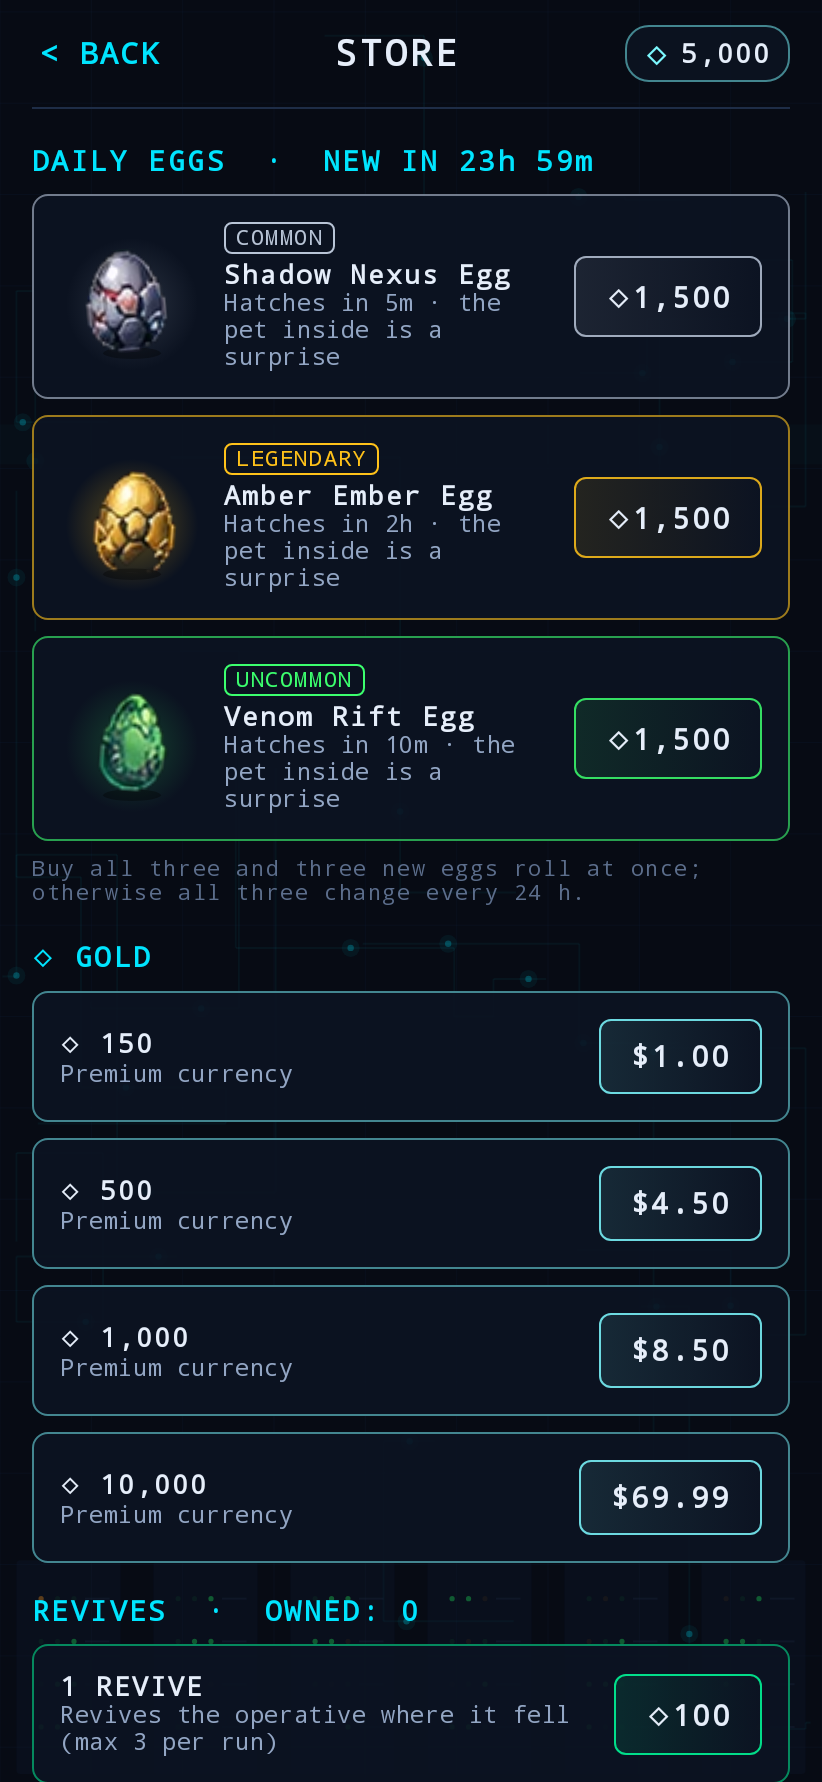
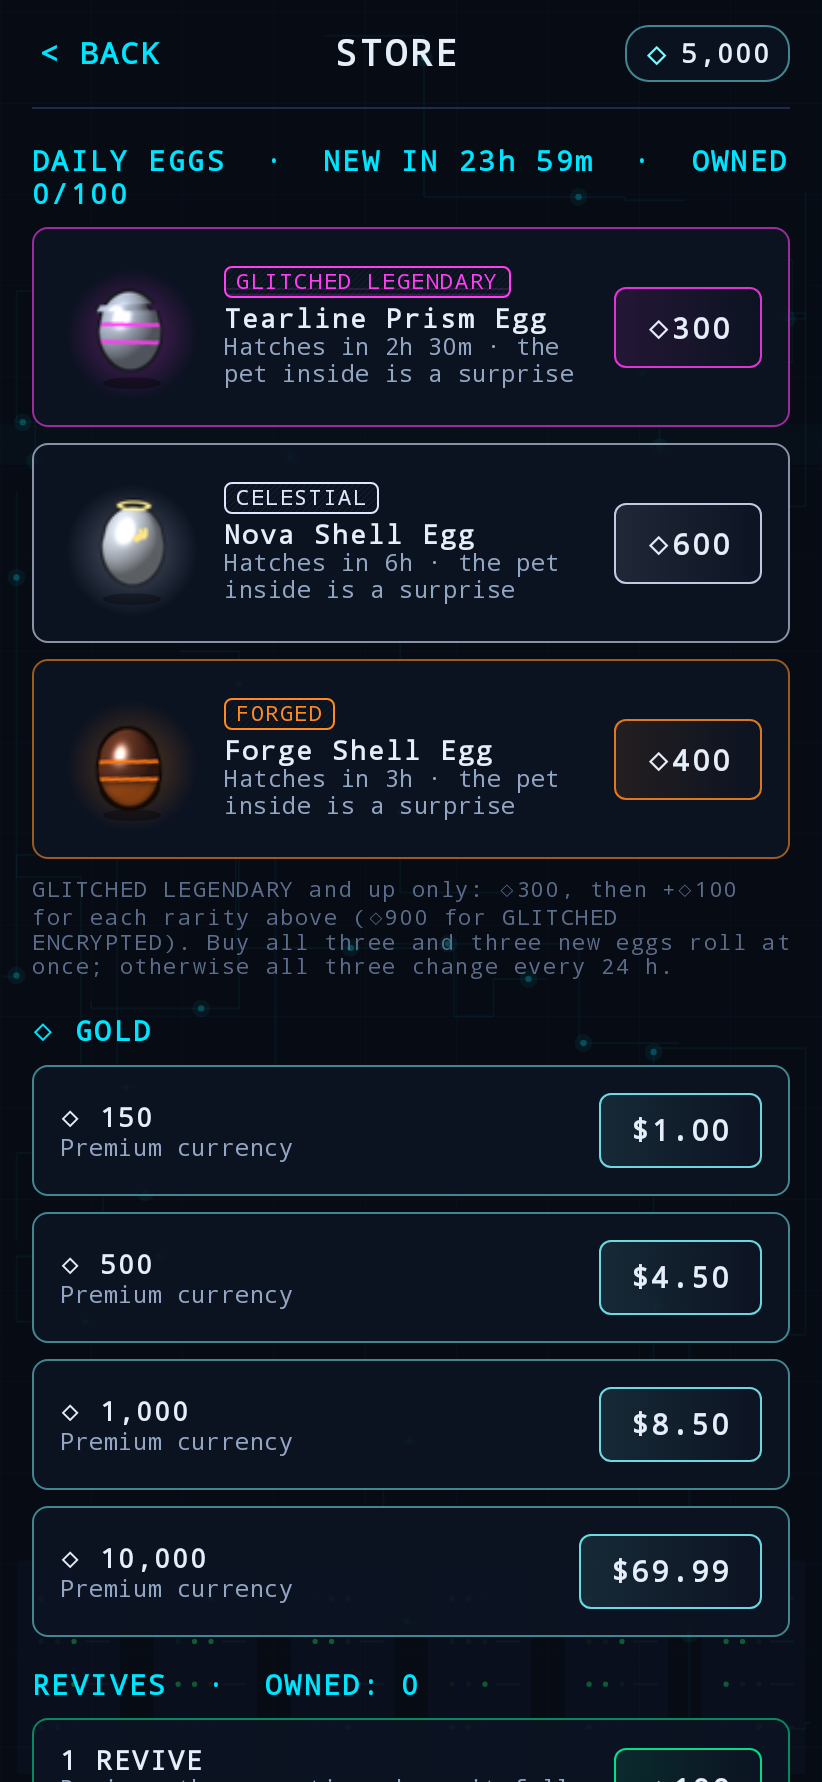
0.50.1: store eggs GLITCHED LEGENDARY and up, priced by rarity
- Daily offers roll GLITCHED+ only (35/22/16/12/8/5/2 %), each priced
  300 + 100 per rarity above GLITCHED (900 for GLITCHED ENCRYPTED).
- Old MYSTERY / EPIC / LEGENDARY packs no longer sold; old low offers re-roll.

Claude-Session: https://claude.ai/code/session_01J4fYSi9rfQR62SLnfyrDCN

diff --git a/app/src/main/java/com/cyberoperative/game/ui/menu/StoreScreens.kt b/app/src/main/java/com/cyberoperative/game/ui/menu/StoreScreens.kt
@@ -73,15 +73,15 @@ fun StoreScreen(save: SaveRepository, audio: AudioManager, onBack: () -> Unit, o
             // DAILY EGGS (owner, 0.50.0): three single eggs, each its own offer, ◇1500 each. First on the page.
             item {
                 val mins = (left.coerceAtLeast(0L) / 60_000L).toInt() + (time * 0).toInt()
-                Header("DAILY EGGS  ·  NEW IN ${mins / 60}h ${mins % 60}m")
+                Header("DAILY EGGS  ·  NEW IN ${mins / 60}h ${mins % 60}m  ·  OWNED ${p.eggs.size}/${com.cyberoperative.game.data.Pets.MAX_EGGS}")
             }
             items(p.eggOffers.size, key = { "offer_" + p.eggOffersAt + "_" + p.eggOffers[it].art + "_" + it }) { i ->
-                DailyEggCard(p.eggOffers[i], time, full = p.eggs.size >= com.cyberoperative.game.data.Pets.MAX_EGGS, canPay = p.diamonds >= com.cyberoperative.game.data.EggOffers.PRICE) {
+                DailyEggCard(p.eggOffers[i], time, full = p.eggs.size >= com.cyberoperative.game.data.Pets.MAX_EGGS, canPay = p.diamonds >= com.cyberoperative.game.data.EggOffers.price(p.eggOffers[i].rarity)) {
                     spend(save, audio) { StoreManager.buyEggOffer(it, i) }
                 }
             }
             item {
-                Text("Buy all three and three new eggs roll at once; otherwise all three change every 24 h.",
+                Text("GLITCHED LEGENDARY and up only: ◇300, then +◇100 for each rarity above (◇900 for GLITCHED ENCRYPTED). Buy all three and three new eggs roll at once; otherwise all three change every 24 h.",
                     color = Palette.TextMuted, style = MaterialTheme.typography.labelSmall)
             }
 
@@ -114,19 +114,8 @@ fun StoreScreen(save: SaveRepository, audio: AudioManager, onBack: () -> Unit, o
                 ) { spend(save, audio) { StoreManager.buyRevives(it, pack) } }
             }
 
-            item { Header("PET EGGS  ·  OWNED: ${p.eggs.size}/${com.cyberoperative.game.data.Pets.MAX_EGGS}") }
-            items(com.cyberoperative.game.data.Pets.StoreEgg.entries.toList(), key = { "egg_" + it.name }) { egg ->
-                val full = p.eggs.size >= com.cyberoperative.game.data.Pets.MAX_EGGS
-                // Shown with an egg of its best rarity, moving like in the game (0.50.0).
-                val top = egg.odds.maxBy { it.first.ordinal }.first
-                StoreRow(
-                    leading = { com.cyberoperative.game.ui.common.AnimatedEgg(com.cyberoperative.game.data.Pets.eggPictureFor(top, egg.ordinal.toLong()), top, time + egg.ordinal * 0.9f, Modifier.size(56.dp)) },
-                    title = egg.label,
-                    subtitle = egg.odds.joinToString(" · ") { (r, w) -> "${r.label} ${w.toInt()}%" } + " — hatch it in the INCUBATOR (CHARACTER › PETS)",
-                    price = if (full) "FULL" else "◇${"%,d".format(egg.price)}", accent = androidx.compose.ui.graphics.Color(0xFFFF6A1A),
-                    enabled = !full && p.diamonds >= egg.price
-                ) { spend(save, audio) { com.cyberoperative.game.meta.StoreManager.buyEgg(it, egg) } }
-            }
+            // 0.50.1 (owner): the store sells no egg below GLITCHED LEGENDARY, so the old
+            // MYSTERY / EPIC / LEGENDARY packs are gone: the DAILY EGGS above are the store's eggs.
 
             item { Header("OPERATIVE SKINS") }
             item {
@@ -190,7 +179,7 @@ private fun DailyEggCard(egg: com.cyberoperative.game.data.PetEgg, time: Float, 
                     color = Palette.TextSecondary, style = MaterialTheme.typography.bodySmall)
             }
             Spacer(Modifier.width(8.dp))
-            CyberButton(if (full) "FULL" else "◇${"%,d".format(com.cyberoperative.game.data.EggOffers.PRICE)}", accent = c, enabled = !full && canPay, onClick = onBuy)
+            CyberButton(if (full) "FULL" else "◇${"%,d".format(com.cyberoperative.game.data.EggOffers.price(egg.rarity))}", accent = c, enabled = !full && canPay, onClick = onBuy)
         }
     }
 }

diff --git a/app/src/main/java/com/cyberoperative/game/data/Pets.kt b/app/src/main/java/com/cyberoperative/game/data/Pets.kt
@@ -387,19 +387,23 @@ data class PetDexEntry(
 )
 
 /**
- * DAILY EGGS (owner, 0.50.0): three single eggs on sale for ◇[PRICE] each, of random rarities and
- * kinds. All three roll again every [ROTATE_MS]; buying the last one rolls three new ones at once.
+ * DAILY EGGS (owner, 0.50.0): three single eggs on sale, of random rarities and kinds. All three
+ * roll again every [ROTATE_MS]; buying the last one rolls three new ones at once.
+ * 0.50.1 (owner): the store sells nothing below GLITCHED LEGENDARY, priced by rarity: ◇300 for
+ * GLITCHED, +◇100 per rarity above it (… ◇900 GLITCHED ENCRYPTED).
  */
 object EggOffers {
-    const val PRICE = 1500L
     const val COUNT = 3
+    const val BASE_PRICE = 300L
+    const val STEP_PRICE = 100L
+
+    fun price(r: GearRarity): Long = BASE_PRICE + STEP_PRICE * (r.ordinal - GearRarity.GLITCHED.ordinal).coerceAtLeast(0)
     const val ROTATE_MS = 24L * 60L * 60L * 1000L
 
-    /** Rarity weights (sum 100): any rarity can show up, the rarest seldom. Defaults: tune here. */
+    /** Rarity weights (sum 100), GLITCHED LEGENDARY and up only; the rarest seldom. Defaults: tune here. */
     val weights: List<Pair<GearRarity, Float>> = listOf(
-        GearRarity.COMMON to 6f, GearRarity.UNCOMMON to 8f, GearRarity.RARE to 12f, GearRarity.EPIC to 17f,
-        GearRarity.LEGENDARY to 20f, GearRarity.GLITCHED to 13f, GearRarity.FORGED to 8f, GearRarity.VOLTAIC to 6f,
-        GearRarity.CELESTIAL to 4.5f, GearRarity.ABYSSAL to 3f, GearRarity.ENCRYPTED to 2f, GearRarity.GLITCHED_ENCRYPTED to 0.5f
+        GearRarity.GLITCHED to 35f, GearRarity.FORGED to 22f, GearRarity.VOLTAIC to 16f, GearRarity.CELESTIAL to 12f,
+        GearRarity.ABYSSAL to 8f, GearRarity.ENCRYPTED to 5f, GearRarity.GLITCHED_ENCRYPTED to 2f
     )
 
     fun rollRarity(rng: Random): GearRarity {

diff --git a/app/src/test/java/com/cyberoperative/game/V050StoreAndCodexTest.kt b/app/src/test/java/com/cyberoperative/game/V050StoreAndCodexTest.kt
@@ -31,7 +31,7 @@ class V050StoreAndCodexTest {
         var p = StoreManager.eggOffers(PlayerProfile(diamonds = 10_000), now = 5L, rng = Random(3))
         val first = p.eggOffers[1]
         p = StoreManager.buyEggOffer(p, 1, now = 6L)!!
-        assertEquals(10_000L - 1500L, p.diamonds)
+        assertEquals(10_000L - EggOffers.price(first.rarity), p.diamonds)
         assertEquals(2, p.eggOffers.size)
         assertEquals(first.art, p.eggs.single().art)
         assertEquals(first.rarity, p.eggs.single().rarity)
@@ -40,13 +40,17 @@ class V050StoreAndCodexTest {
         assertEquals(3, p.eggOffers.size)      // a fresh three
         assertEquals(8L, p.eggOffersAt)         // and a fresh 24 h
         assertEquals(3, p.eggs.size)
-        assertNull(StoreManager.buyEggOffer(p.copy(diamonds = 1499), 0))
+        assertNull(StoreManager.buyEggOffer(p.copy(diamonds = 299), 0))
     }
 
-    @Test fun offersCoverEveryRarity() {
+    @Test fun offersAreGlitchedOrBetterPricedByRarity() {
         val r = Random(7)
         val seen = (0 until 4000).map { EggOffers.rollRarity(r) }.toSet()
-        assertEquals(GearRarity.entries.toSet(), seen)
+        assertEquals(GearRarity.entries.filter { it >= GearRarity.GLITCHED }.toSet(), seen)
+        assertEquals(listOf(300L, 400L, 500L, 600L, 700L, 800L, 900L), GearRarity.entries.filter { it >= GearRarity.GLITCHED }.map { EggOffers.price(it) })
+        // A save from 0.50.0 with lower offers gets a fresh, GLITCHED+ three.
+        val old = PlayerProfile(eggOffers = listOf(PetEgg(0, GearRarity.COMMON, 1, 2)), eggOffersAt = 10L)
+        assertTrue(StoreManager.eggOffers(old, now = 11L, rng = Random(1)).eggOffers.all { it.rarity >= GearRarity.GLITCHED })
         assertEquals(100f, EggOffers.weights.sumOf { it.second.toDouble() }.toFloat(), 0.01f)
     }
 

diff --git a/app/src/main/java/com/cyberoperative/game/meta/StoreManager.kt b/app/src/main/java/com/cyberoperative/game/meta/StoreManager.kt
@@ -137,13 +137,14 @@ object StoreManager {
 
     /** DAILY EGGS (0.50.0): the offers as of [now], rolled again when 24 h have passed or none are left. */
     fun eggOffers(p: PlayerProfile, now: Long = System.currentTimeMillis(), rng: kotlin.random.Random = kotlin.random.Random.Default): PlayerProfile =
-        if (p.eggOffers.isNotEmpty() && now >= p.eggOffersAt && now - p.eggOffersAt < com.cyberoperative.game.data.EggOffers.ROTATE_MS) p
+        // (offers rolled before 0.50.1 could be below GLITCHED: those roll again)
+        if (p.eggOffers.isNotEmpty() && p.eggOffers.all { it.rarity >= com.cyberoperative.game.data.GearRarity.GLITCHED } && now >= p.eggOffersAt && now - p.eggOffersAt < com.cyberoperative.game.data.EggOffers.ROTATE_MS) p
         else p.copy(eggOffers = com.cyberoperative.game.data.EggOffers.roll(rng), eggOffersAt = now)
 
-    /** Buys daily offer [index] for ◇1500; buying the last one rolls three new offers at once. */
+    /** Buys daily offer [index] at its rarity's price; buying the last one rolls three new offers at once. */
     fun buyEggOffer(p: PlayerProfile, index: Int, now: Long = System.currentTimeMillis(), rng: kotlin.random.Random = kotlin.random.Random.Default): PlayerProfile? {
-        val price = com.cyberoperative.game.data.EggOffers.PRICE
         val egg = p.eggOffers.getOrNull(index) ?: return null
+        val price = com.cyberoperative.game.data.EggOffers.price(egg.rarity)
         if (p.diamonds < price || p.eggs.size >= com.cyberoperative.game.data.Pets.MAX_EGGS) return null
         val left = p.eggOffers.filterIndexed { i, _ -> i != index }
         val bought = p.copy(diamonds = p.diamonds - price, eggs = p.eggs + egg.copy(uid = p.petSeq), petSeq = p.petSeq + 1, eggOffers = left)

diff --git a/README.md b/README.md
@@ -16,7 +16,7 @@ Play **co-op** with a friend (friend codes, invites, live two-player runs; see `
 
 ## Project status
 
-`0.50.0` — DAILY EGGS (3 rotating ◇1,500 offers), animated store eggs, skins previewed on your operator, PET CODEX; `0.49.1` 300 new pets and eggs (100 GLITCHED, 100 GLITCHED ENCRYPTED, 100 ENCRYPTED, all with never-before-used parts), eggs from Idle Runs; `0.49.0` 50 GLITCHED ENCRYPTED pets and eggs (animated, glitch-tearing, 12 h hatch); `0.48.1` compact HUD portrait-only and switchable in Settings, [+] auto-hides, opaque buttons (see-through switch), boss bar with HP numbers and phase blocks; `0.48.0` UI SQUISH: a small corner HUD on phones (+ opens €, score and buffs), thin boss bar in the boss's colour; `0.47.3` squished damage numbers on Android (11k / 7m / 1.2e13), compact buffs on landscape + PC, ■INV; `0.47.2` slimmer see-through phone HUD, half-size buffs in 3 rows; `0.47.1` Plasma Beam drawn at 15% thickness; `0.47.0` GLITCHED ENCRYPTED gear: a new top rarity, 650 pieces (50 per slot + 50 class weapons per class), cyan↔red glitch animations; `0.46.0` AUTO-SELL in Settings (sell everything below a chosen rarity); `0.45.3` fixed the silent NEON tracks on Android; `0.45.2` hatch sound effect, plus a full hatch clip in `docs/pets_new/hatch_animation.mp4`; `0.45.1` hatch glow from 1× (Common) to 2× (Encrypted) in the rarity's colour; `0.45.0` three incubators hatching at once (empty glass or the real egg inside), an animated hatch reveal with the pet's stats that grows with rarity; `0.44.0` operator redesign: the same figures with the pets' shading (matte cloth Packet Mage, Phantom hood and cape as before); `0.43.1` Technician without the small blaster; operator redesign concept; `0.43.0` instant hatch with € too (highest OP level × ◇ price × 100); `0.42.0` INSTANT HATCH for ◇ (4 × ⌈rarity × minutes ÷ 6⌉); `0.41.0` 500 animated ENCRYPTED pets in 14 colourways (orbiting orbs, gears, rings, propellers…); `0.40.0` 500 new GLITCHED…ENCRYPTED pets with their own eggs; `0.39.1` tougher NORMAL past level 100 (HARD rises with it), HARD Idle Runs (no GLITCHED/ENCRYPTED from idle); `0.39.0` GLITCHED LEGENDARY and ENCRYPTED gear + chips, FORGED…ABYSSAL chips (22 new chips: shoot while moving, heal per hit, auto/full-heal potions, ×2 damage…), Golden+ gear +30%, easier HARD past World 2 with 2 chips a room, bosses drop 3 HP potions, pet abilities, hatch notification; `0.38.0` COMPANIONS: eggs (drops + ◇ store), incubator with real-time hatching that ignores clock changes, Inferno Stones (−15% each, up to −90%), 1,005 pets that follow and fight; `0.37.6` 3 × 1 Idle Run widget; `0.37.5` five new NEON tracks on any level (never on bosses, never altered); `0.37.4` Idle Runs pay 40% € (XP stays 50%) and 20% less gear; `0.37.3` Idle Runs keep only EPIC and better gear; `0.37.2` Idle Runs last about twice as long again; `0.37.1` easier Idle Runs (they run about twice as long); `0.37.0` IDLE RUNS: your operator fights on with the game closed (50% € and XP), with a 2 × 3 Android home-screen widget and a notification when it falls; Boss Expansion bosses get moving parts (mesh rigs); `0.36.4` co-op € fully separate (your kills, your bags, your own payouts; trade to share); `0.36.3` one € total in co-op too; TRADE only shows when usable; short numbers (398k, 3.7m) when they don't fit; `0.36.2` the classic bosses get moving parts too (mesh rigs); `0.36.1` INFERNO bosses get real moving parts (deformable mesh rigs); `0.36.0` INFERNO bosses redrawn from the owner's pack paintings with animation rigs; recorded INFERNO drop sounds; `0.35.1` each INFERNO boss has its own colour; `0.35.0` sell backpack items; co-op TRADE; 15 INFERNO-only bosses (Packs Alpha/Beta/Gamma); Shadow Step knives, smarter Firestorm, wall-piercing Arcane Nova; signature perks on Legendary+ gear; `0.34.0` INFERNO levels 1–500 (curve A, level stepper); one Data Vault shared by every character (main-menu DATA VAULT); ABYSSAL in ~1 shop in 100; `0.33.0` four INFERNO equipment rarities (Forged, Voltaic, Celestial, Abyssal) with their own art, animated cards, auras and base × INFERNO level drop odds; `0.32.0` € carries over between runs; 4 equipment pieces (PURPLE+) in the shop; INFERNO soundtrack; `0.31.0` co-op shared XP and smoother partners; PC exit button, 2× HUD, big ability bar, keybinds in pause; `0.30.5` XP bar reads OC Lv after level 60; `0.30.4` fixed a fake left EXIT door; Circuit Hydra loses 10% HP per head destroyed; `0.30.3` white XP bar in the HUD; rooms follow the screen orientation; `0.30.2` level XP ×10 (1–60 is 29.2M XP; saves keep their level); `0.30.1` fixed the keyboard closing on the character name and the Packet Mage face parts; `0.30.0` Data Vault update phase 2: gear loot (the owner's art, 8 rarities, beams + sheen), CHARACTER / GEAR / DATA VAULT screens with drag-to-equip, character creator and named characters, in-game INVENTORY; `0.29.0` INFERNO I–X difficulties with a hell look; `0.28.0` Data Vault update phase 1: OP Lv 1–60 + Overclock, Diablo armor, no Firewall, € wipe; `0.27.0` world server: MOVE TO NEXT WORLD (co-op 1/2 ready); `0.26.3` fix: no way on to the next world after the shop; `0.26.2` slim Android landscape HUD; `0.26.1` PC direct-IP co-op (no Steam needed); `0.26.0` co-op shop (a shop each, in and out together); `0.25.9` no HP/Firewall regen over time, MAP corner kept clear of touch buttons; `0.25.8` compact shop window; `0.25.7` room slide follows the door direction; `0.25.6` ALL COLOUR SKINS pack ◇1400; `0.25.5` skins renamed by colour; `0.25.4` fixed the crash on START; crash reporter; PURPLE/GLITCHED campaign skins, GOLD and NEON (◇1000) skins, PROXY SHOT removed; boss loot sprays out; per-player co-op loot; World-map CAMPAIGN (15 worlds); Steam build (PC + Steam Deck, landscape) added in `desktop/`; Boss Expansion Vol. 1 under way; 0.16.0 balance pass (pooled mastery, bigger Packet Flood) (see `DEVELOPMENT_STATE.md` and `docs/BOSS_EXPANSION_LOG.md`).
+`0.50.1` — store eggs GLITCHED LEGENDARY+ only, ◇300–◇900 by rarity; `0.50.0` DAILY EGGS (3 rotating offers), animated store eggs, skins previewed on your operator, PET CODEX; `0.49.1` 300 new pets and eggs (100 GLITCHED, 100 GLITCHED ENCRYPTED, 100 ENCRYPTED, all with never-before-used parts), eggs from Idle Runs; `0.49.0` 50 GLITCHED ENCRYPTED pets and eggs (animated, glitch-tearing, 12 h hatch); `0.48.1` compact HUD portrait-only and switchable in Settings, [+] auto-hides, opaque buttons (see-through switch), boss bar with HP numbers and phase blocks; `0.48.0` UI SQUISH: a small corner HUD on phones (+ opens €, score and buffs), thin boss bar in the boss's colour; `0.47.3` squished damage numbers on Android (11k / 7m / 1.2e13), compact buffs on landscape + PC, ■INV; `0.47.2` slimmer see-through phone HUD, half-size buffs in 3 rows; `0.47.1` Plasma Beam drawn at 15% thickness; `0.47.0` GLITCHED ENCRYPTED gear: a new top rarity, 650 pieces (50 per slot + 50 class weapons per class), cyan↔red glitch animations; `0.46.0` AUTO-SELL in Settings (sell everything below a chosen rarity); `0.45.3` fixed the silent NEON tracks on Android; `0.45.2` hatch sound effect, plus a full hatch clip in `docs/pets_new/hatch_animation.mp4`; `0.45.1` hatch glow from 1× (Common) to 2× (Encrypted) in the rarity's colour; `0.45.0` three incubators hatching at once (empty glass or the real egg inside), an animated hatch reveal with the pet's stats that grows with rarity; `0.44.0` operator redesign: the same figures with the pets' shading (matte cloth Packet Mage, Phantom hood and cape as before); `0.43.1` Technician without the small blaster; operator redesign concept; `0.43.0` instant hatch with € too (highest OP level × ◇ price × 100); `0.42.0` INSTANT HATCH for ◇ (4 × ⌈rarity × minutes ÷ 6⌉); `0.41.0` 500 animated ENCRYPTED pets in 14 colourways (orbiting orbs, gears, rings, propellers…); `0.40.0` 500 new GLITCHED…ENCRYPTED pets with their own eggs; `0.39.1` tougher NORMAL past level 100 (HARD rises with it), HARD Idle Runs (no GLITCHED/ENCRYPTED from idle); `0.39.0` GLITCHED LEGENDARY and ENCRYPTED gear + chips, FORGED…ABYSSAL chips (22 new chips: shoot while moving, heal per hit, auto/full-heal potions, ×2 damage…), Golden+ gear +30%, easier HARD past World 2 with 2 chips a room, bosses drop 3 HP potions, pet abilities, hatch notification; `0.38.0` COMPANIONS: eggs (drops + ◇ store), incubator with real-time hatching that ignores clock changes, Inferno Stones (−15% each, up to −90%), 1,005 pets that follow and fight; `0.37.6` 3 × 1 Idle Run widget; `0.37.5` five new NEON tracks on any level (never on bosses, never altered); `0.37.4` Idle Runs pay 40% € (XP stays 50%) and 20% less gear; `0.37.3` Idle Runs keep only EPIC and better gear; `0.37.2` Idle Runs last about twice as long again; `0.37.1` easier Idle Runs (they run about twice as long); `0.37.0` IDLE RUNS: your operator fights on with the game closed (50% € and XP), with a 2 × 3 Android home-screen widget and a notification when it falls; Boss Expansion bosses get moving parts (mesh rigs); `0.36.4` co-op € fully separate (your kills, your bags, your own payouts; trade to share); `0.36.3` one € total in co-op too; TRADE only shows when usable; short numbers (398k, 3.7m) when they don't fit; `0.36.2` the classic bosses get moving parts too (mesh rigs); `0.36.1` INFERNO bosses get real moving parts (deformable mesh rigs); `0.36.0` INFERNO bosses redrawn from the owner's pack paintings with animation rigs; recorded INFERNO drop sounds; `0.35.1` each INFERNO boss has its own colour; `0.35.0` sell backpack items; co-op TRADE; 15 INFERNO-only bosses (Packs Alpha/Beta/Gamma); Shadow Step knives, smarter Firestorm, wall-piercing Arcane Nova; signature perks on Legendary+ gear; `0.34.0` INFERNO levels 1–500 (curve A, level stepper); one Data Vault shared by every character (main-menu DATA VAULT); ABYSSAL in ~1 shop in 100; `0.33.0` four INFERNO equipment rarities (Forged, Voltaic, Celestial, Abyssal) with their own art, animated cards, auras and base × INFERNO level drop odds; `0.32.0` € carries over between runs; 4 equipment pieces (PURPLE+) in the shop; INFERNO soundtrack; `0.31.0` co-op shared XP and smoother partners; PC exit button, 2× HUD, big ability bar, keybinds in pause; `0.30.5` XP bar reads OC Lv after level 60; `0.30.4` fixed a fake left EXIT door; Circuit Hydra loses 10% HP per head destroyed; `0.30.3` white XP bar in the HUD; rooms follow the screen orientation; `0.30.2` level XP ×10 (1–60 is 29.2M XP; saves keep their level); `0.30.1` fixed the keyboard closing on the character name and the Packet Mage face parts; `0.30.0` Data Vault update phase 2: gear loot (the owner's art, 8 rarities, beams + sheen), CHARACTER / GEAR / DATA VAULT screens with drag-to-equip, character creator and named characters, in-game INVENTORY; `0.29.0` INFERNO I–X difficulties with a hell look; `0.28.0` Data Vault update phase 1: OP Lv 1–60 + Overclock, Diablo armor, no Firewall, € wipe; `0.27.0` world server: MOVE TO NEXT WORLD (co-op 1/2 ready); `0.26.3` fix: no way on to the next world after the shop; `0.26.2` slim Android landscape HUD; `0.26.1` PC direct-IP co-op (no Steam needed); `0.26.0` co-op shop (a shop each, in and out together); `0.25.9` no HP/Firewall regen over time, MAP corner kept clear of touch buttons; `0.25.8` compact shop window; `0.25.7` room slide follows the door direction; `0.25.6` ALL COLOUR SKINS pack ◇1400; `0.25.5` skins renamed by colour; `0.25.4` fixed the crash on START; crash reporter; PURPLE/GLITCHED campaign skins, GOLD and NEON (◇1000) skins, PROXY SHOT removed; boss loot sprays out; per-player co-op loot; World-map CAMPAIGN (15 worlds); Steam build (PC + Steam Deck, landscape) added in `desktop/`; Boss Expansion Vol. 1 under way; 0.16.0 balance pass (pooled mastery, bigger Packet Flood) (see `DEVELOPMENT_STATE.md` and `docs/BOSS_EXPANSION_LOG.md`).
 
 | | |
 |---|---|

diff --git a/CHANGELOG.md b/CHANGELOG.md
@@ -1,5 +1,24 @@
 # Changelog
 
+## 0.50.1 (versionCode 142) — 2026-10-18 · Store eggs: GLITCHED LEGENDARY and up, priced by rarity
+### Changed (owner: "the store sells nothing less than a glitched legendary rarity egg")
+- **DAILY EGGS** only roll GLITCHED LEGENDARY or better, priced by rarity:
+
+  | Rarity | Price |
+  |---|---|
+  | GLITCHED LEGENDARY | ◇300 |
+  | FORGED | ◇400 |
+  | VOLTAIC | ◇500 |
+  | CELESTIAL | ◇600 |
+  | ABYSSAL | ◇700 |
+  | ENCRYPTED | ◇800 |
+  | GLITCHED ENCRYPTED | ◇900 |
+
+  - Default odds, in the same order: 35 / 22 / 16 / 12 / 8 / 5 / 2 % (`EggOffers.weights`).
+  - The three offers still rotate every 24 h, or all at once when the last one is bought.
+  - Offers rolled under 0.50.0 that were below GLITCHED roll again.
+- The old MYSTERY / EPIC / LEGENDARY egg packs are no longer sold.
+
 ## 0.50.0 (versionCode 141) — 2026-10-18 · Daily eggs, live store previews, PET CODEX
 ### Added (owner)
 - **DAILY EGGS** (top of the STORE): three separate eggs, each with its own card and BUY button, at **◇1,500** each.

diff --git a/BACKLOG.md b/BACKLOG.md
@@ -5,6 +5,7 @@
 device, tune balance, then fill out the store/meta phases.
 
 ## IN PROGRESS
+- ✅ 0.50.1: store eggs GLITCHED LEGENDARY and up, ◇300 + ◇100 per rarity.
 - ✅ 0.50.0: daily egg offers, animated store eggs, live skin previews, PET CODEX.
 - ✅ 0.49.1: 300 new pets and eggs; eggs drop in Idle Runs.
 - ✅ 0.49.0: 50 GLITCHED ENCRYPTED pets and eggs (animated, glitch-tearing, 12 h hatch).
@@ -153,7 +154,7 @@ device, tune balance, then fill out the store/meta phases.
 - Boss rush mode
 
 ## USER DECISIONS REQUIRED
-- DAILY EGGS rarity weights (defaults in `EggOffers.weights`; a COMMON at ◇1,500 is possible, but you see the egg before buying).
+- DAILY EGGS odds (defaults in `EggOffers.weights`: GLITCHED 35 … GLITCHED ENCRYPTED 2 %, priced ◇300–◇900).
 - Should the ◇ store sell a GLITCHED ENCRYPTED egg (and at what price)? Today they only drop (0.49.0).
 - GLITCHED ENCRYPTED gear defaults to check: 0.1% per boss piece, ×3.5 stats, its perks (0.47.0).
 3. **Living background price**: currently provisional ◇150 each / ◇600 all.

diff --git a/DEVELOPMENT_STATE.md b/DEVELOPMENT_STATE.md
@@ -6,7 +6,7 @@ _Read this first in every new session, then README, GAME_DESIGN, BACKLOG, CHANGE
 
 | | |
 |---|---|
-| Version | 0.50.0 (versionCode 141) |
+| Version | 0.50.1 (versionCode 142) |
 | Milestone | M1 vertical slice ✅ · M2 first boss & systems ✅ (pending device playtest) |
 | Last completed | 0.9.5 fullscreen HUD redesign (ui/game/GameHud.kt, buff chips in UpgradeBar.kt) |
 | Current task | Waiting on owner: body design (CO-094) and Power-Up Board picks (CO-090) |
